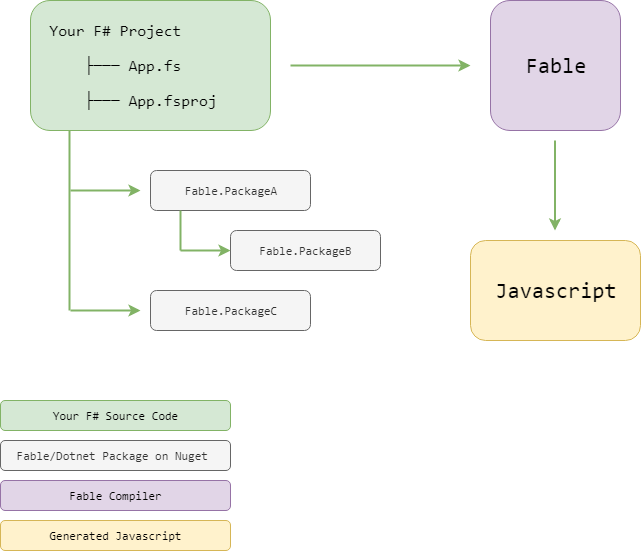
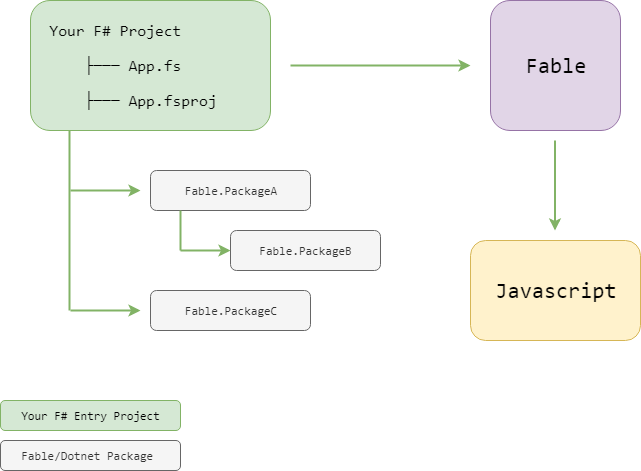
Extend fable packages section even more

diff --git a/chapters/fable/fable-packages.md b/chapters/fable/fable-packages.md
@@ -14,7 +14,7 @@ From the template we started with in the [Hello World](hello-world.md) section, 
   </ItemGroup>
 </Project>
 ```
-Now take a closer look at the highlighted line: a package reference is included that points to `Fable.Browser.Dom`. This package was restored from `nuget`. From dotnet's perspective it is a normal package but in fact this is a *Fable-specific* package and it is meant to only be used within Fable projects. Using this package, we were able to `open Browser.Dom` namespace and gain access to some of the browser's APIs, specifically the DOM APIs that allows us to reference and manipulate elements on the page. 
+Now take a closer look at the highlighted line: a package reference is included that points to `Fable.Browser.Dom`. This package was restored from [nuget](http://www.nuget.org). From dotnet's perspective it is a normal package but in fact this is a *Fable-specific* package and it is meant to only be used within Fable projects. Using this package, we were able to `open Browser.Dom` namespace and gain access to some of the browser's APIs, specifically the DOM APIs that allows us to reference and manipulate elements on the page. 
 
 ### Fable-specific Packages
 
@@ -49,16 +49,36 @@ Fable.Library.nupkg
 
 ### Fable Compiles Source Code
 
-Let me mention this again, the *source files* are included in the nuget package. This is very important because Fable operates on source code instead of compiled assemblies. This has the consequence that F# packages are not compatible by default in F# projects. To make a F# package compilable by Fable, you need to publish a new version of the package with the source code included with the condition that the source code of that package is also Fable-compatible: doesn't use APIs that Fable cannot recognize as discussed in [.NET Compatibility](compatibility.md). 
+Let me mention this again, the *source files* are included in the nuget package. This is very important because Fable operates on source code instead of compiled assemblies. This has the consequence that F# packages are not compatible by default in Fable projects. To make a F# package compilable by Fable, you need to publish a new version of the package with the source code included with the condition that the source code of that package is also Fable-compatible: doesn't use APIs that Fable cannot recognize as discussed in [.NET Compatibility](compatibility.md). 
 
-You might be wondering and thinking to yourself: "Well, then why are the compiled assemblies are still included in the Fable nuget package if Fable only requires the source files?" and that would be a great question! It is not Fable that is using these compiled files but it is your IDE. Whether you are using Inonide, Visual Studio or Rider, these IDE's provide their intellisense and auto-complete features using the definitions within these compiled `dll` files. 
+You might be wondering and thinking to yourself: "Well, then why are the compiled assemblies are still included in the Fable nuget package if Fable only requires the source files?" It is not Fable that is using these compiled files but it is your IDE. Whether you are using Inonide, Visual Studio or Rider, these IDE's provide their intellisense and auto-complete features using the definitions within these compiled `dll` files. 
 
 ### Fable Compiles Dependencies 
 
-For a full build, Fable not only compiles the entry project but also compiles the dependencies of the project coming from nuget along with their (transitive) dependencies if any exist. The following diagram illustrates a valid project that Fable can compile, assuming all dependencies are compatible with the specific Fable version you are using. This is in fact the case most of the time:
+For a full build, Fable not only compiles the entry project but also compiles the dependencies of the project coming from nuget along with their (transitive) dependencies if any exist. The following diagram illustrates a valid project that Fable can compile, assuming all dependencies are compatible with the Fable version you are using, which is the case most of the time:
 
 <resolved-image source="/images/fable/simple-project.png" />
 
 ### Fable Can Use Native Javascript Libraries 
 
-Aside from Fable-specific dotnet packages that are distributed to [Nuget](https://www.nuget.org/), Fable is also able to use *native* javascript libraries. From either the project you are building or the packages you depend upon, your code can call functions and interop with javascript code coming from node.js packages that are distributed to the [node package manager](https://www.npmjs.com/) (npm for short).   
+Aside from Fable-specific dotnet packages that are distributed to [Nuget](https://www.nuget.org/), Fable is also able to use *native* javascript libraries. Either from the entry project you are building or the packages that project depends upon, the code can call functions and interop with javascript code. Javascript code can be either:
+
+ - (1) Global javascript modules available in the environment where you run your code (browser, node.js etc.)
+ - (2) Packages that are distributed to the [node package manager](https://www.npmjs.com/) (npm for short). 
+
+ The package `Fable.Browser.Dom` we used in the [hello world](hello-world) is of type (1). It is a binding library that interacts with APIs that are globally available in the browser such as the `document` API so eveything works fine.
+
+ Package of type (2) are more common in Fable's landscape. Such packages interact with javascript code internally but provide type-safe public APIs for use from Fable projects. To use a package of type (2), you have to install both packages: the binding library which is a Fable-specific package distributed to nuget and the actual native javascript distributed to npm. 
+ 
+ An example of such packages is the [Fable.DateFunctions](https://github.com/Zaid-Ajaj/Fable.DateFunctions) package which is a binding for [date-fns](https://date-fns.org/) javascript library. To use it inside your project, you have to install `Fable.DateFunction` from nuget and `date-fns` from npm:
+
+```bash
+# inside src directory:
+dotnet add package Fable.DateFunctions
+# inside repo directory
+npm install --save date-fns
+```
+
+The following diagram illustrates a project structure that uses native javascript libraries:
+
+<resolved-image source="/images/fable/complex-project.png" />

diff --git a/chapters/fable/README.md b/chapters/fable/README.md
@@ -12,4 +12,4 @@
 - [*Fable Pacakges](fable-packages.md)
 - [*Understanding How Fable Works](how-fable-works.md)
 
-> Sections staring with * contain advanced content. Embrace yourself before going there.
+> *Advanced content.
